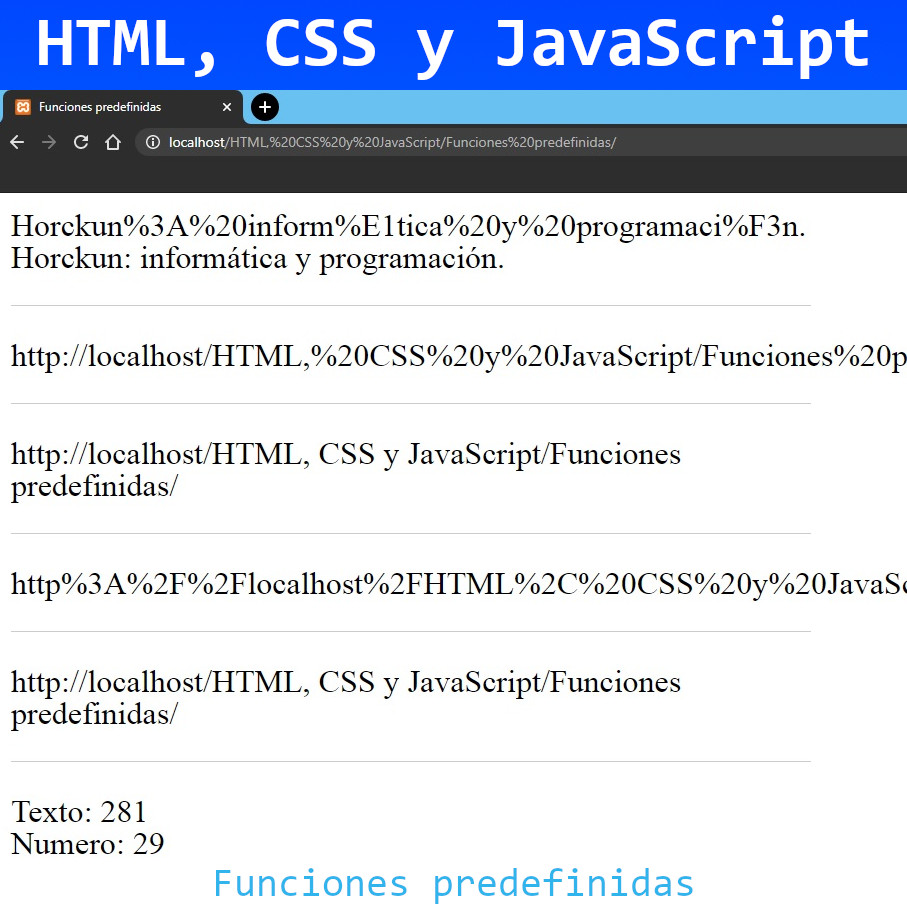
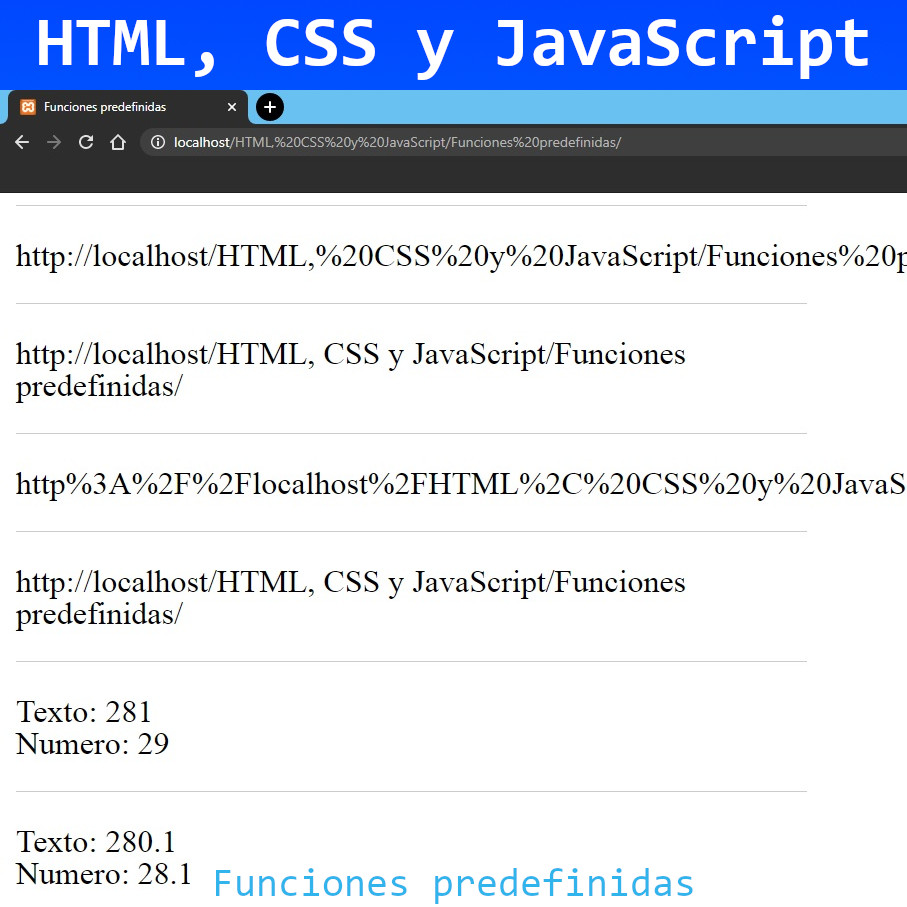
Funciones predefinidas
Funciones predefinidas en JavaScript

diff --git a/HTML, CSS y JavaScript/Funciones predefinidas/js/funciones.js b/HTML, CSS y JavaScript/Funciones predefinidas/js/funciones.js
@@ -26,3 +26,14 @@ document.write("<br>");
 var numero = parseInt(texto);
 // MOSTRAR EN PANTALLA
 document.write("Numero: "+(numero+1));
+//----------------------
+document.write("<hr>");
+// DECLARAR VARIABLE
+var texto = "28";
+// MOSTRAR EN PANTALLA
+document.write("Texto: "+(texto+0.1));
+document.write("<br>");
+// CAMBIAR A NÚMERO
+var numero = parseFloat(texto);
+// MOSTRAR EN PANTALLA
+document.write("Numero: "+(numero+0.1));
